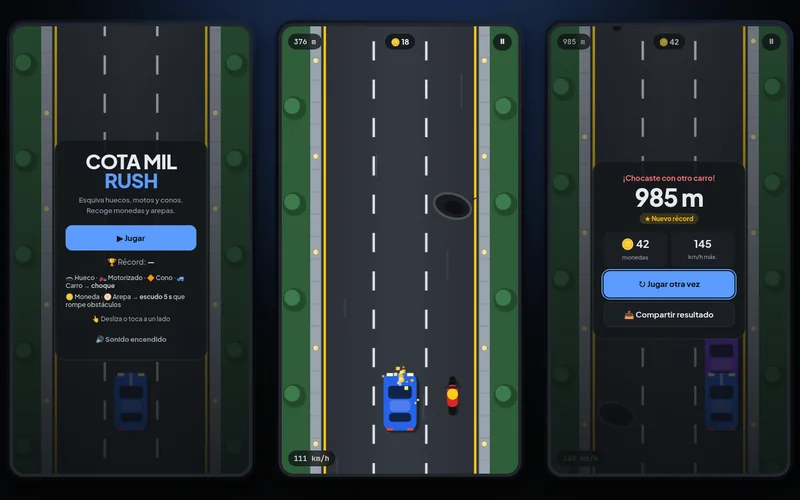
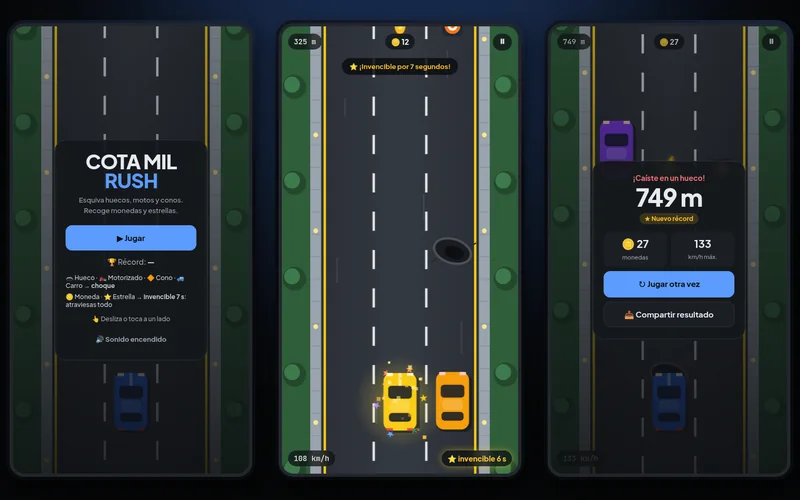
Actualiza la tarjeta del juego: la arepa ahora es una estrella

diff --git a/index.html b/index.html
@@ -297,7 +297,7 @@
             <div class="project-body">
               <span class="tag">Juego web</span>
               <h3>Cota Mil Rush</h3>
-              <p>Juego de carro en una autopista de Caracas: esquiva huecos, motorizados y conos, recoge arepas para tener escudo y comparte tu récord.</p>
+              <p>Juego de carro en una autopista de Caracas: esquiva huecos, motorizados y conos, recoge estrellas que te vuelven invencible y comparte tu récord.</p>
               <ul class="chips"><li>TypeScript</li><li>Canvas</li><li>Web Audio</li><li>Vitest</li></ul>
               <div class="project-links">
                 <a href="https://alezzz18.github.io/cota-mil-rush/" target="_blank" rel="noopener">
